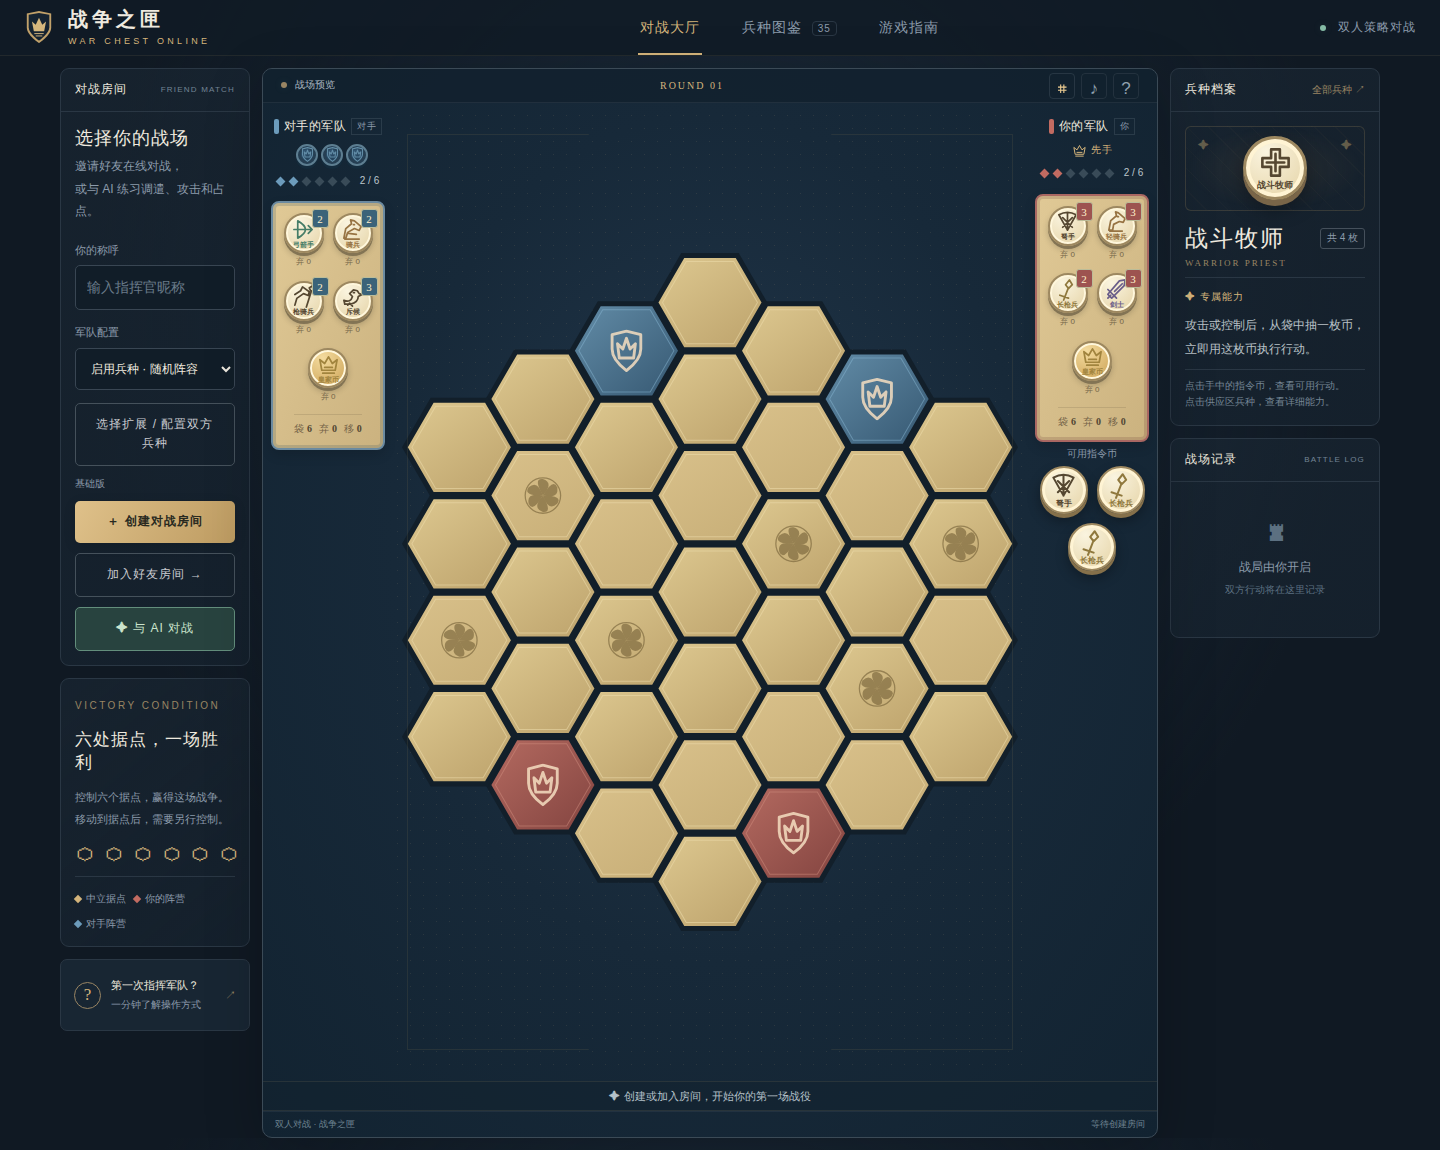
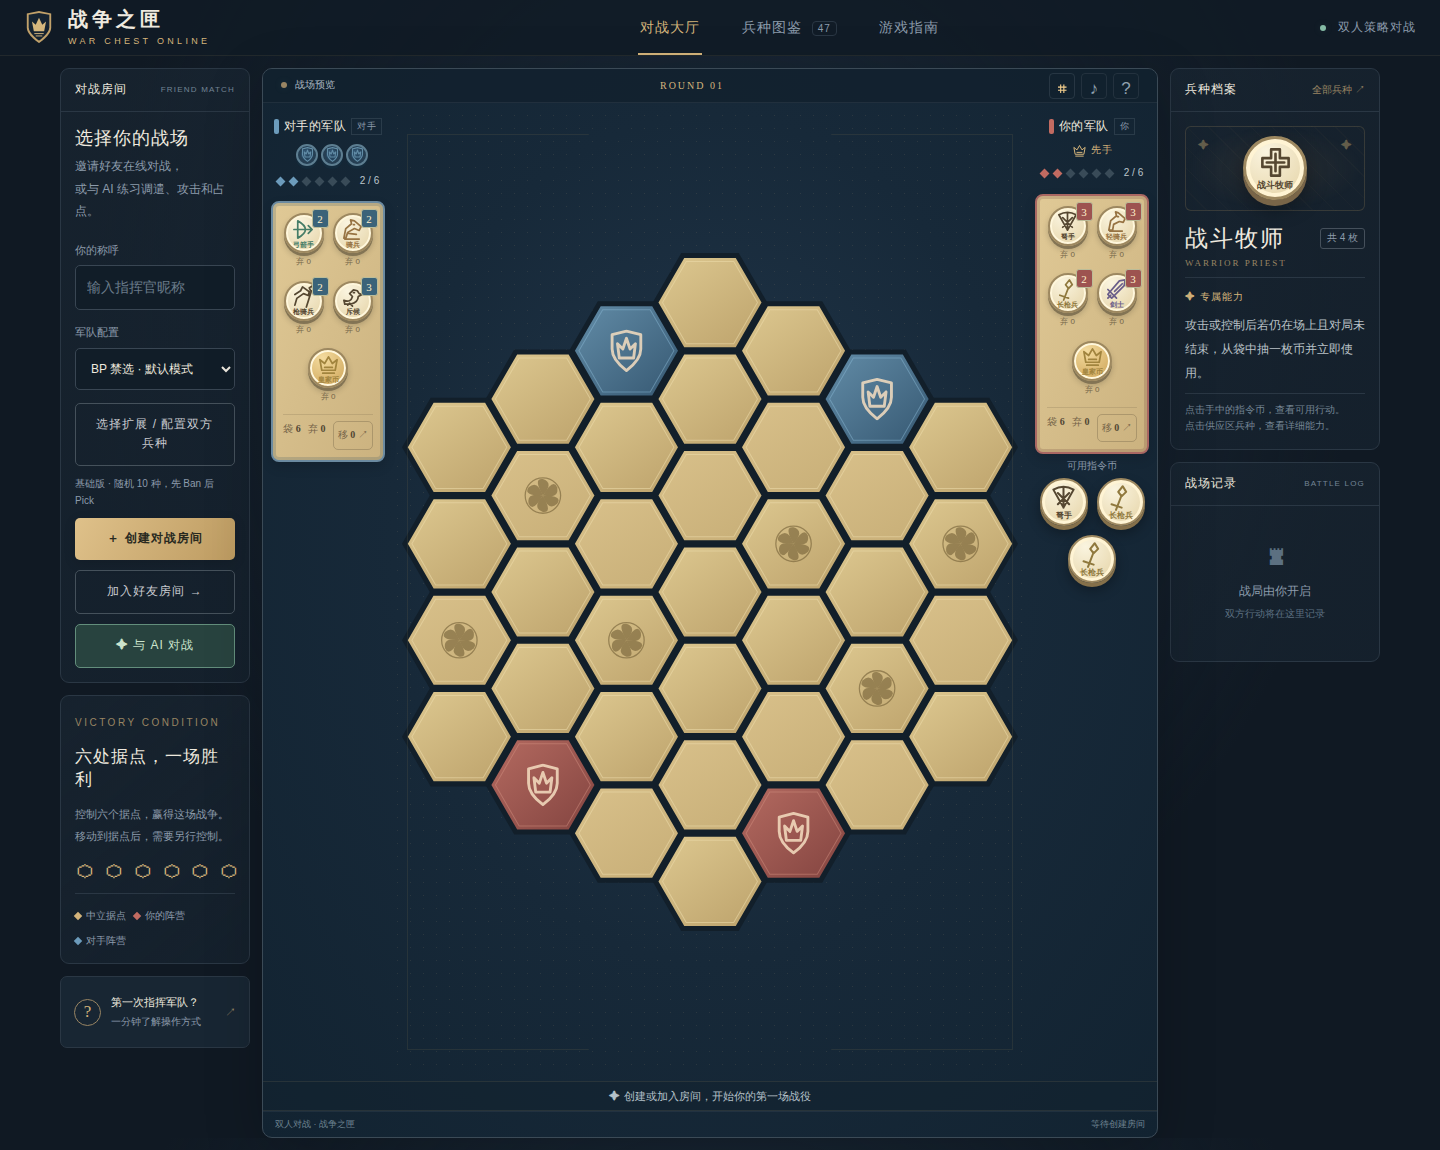
Add removed coin details and temporary online launcher
Show live removed coin counts for both players with desktop and mobile browser coverage. Include the Cloudflare Quick Tunnel launcher and usage notes, refreshed screenshots, and requested test whitespace changes.

diff --git a/warchest/static/app.js b/warchest/static/app.js
@@ -40,7 +40,7 @@ function renderZone(who,self){const v=view(),p=v.players[who],name=session?(snap
  const target=6-(v.extras?.lost_markers?.[who]||0);
  const progress=Array.from({length:target},(_,i)=>`<i class="${i<controls?'filled':''}"></i>`).join('');
  const hand=self?`<div class="hand-row"><span class="hand-label">可用指令币<b>YOUR HAND</b></span>${p.hand.map((u,i)=>`<button class="hand-coin ${selectedIndex===i?'selected':''}" data-coin="${u}" data-index="${i}" aria-label="使用${esc(unitName(u))}，第${i+1}枚" ${session&&!canAct()?'disabled':''}>${coinHTML(u)}</button>`).join('')}${!p.hand.length?'<span class="muted">本轮指令币已用完</span>':''}</div>`:`<div class="hidden-hand" aria-label="对手有 ${p.hand_count} 枚隐藏手牌">${Array.from({length:p.hand_count},()=>coinHTML('royal',true)).join('')}</div>`;
- return `<div class="player-topline"><div class="player-name"><i class="faction-dot"></i><strong>${esc(name)}</strong><small>${self?'你':'对手'}</small>${v.initiative===who?`<span class="initiative">${icon('royal')}先手</span>`:''}</div>${self?'':hand}<div class="control-progress">${progress}<span>${controls} / ${target}</span></div></div><div class="army-tray"><div class="faction-emblem"><span class="shield">${icon('crest')}</span><small>${self?'CRIMSON':'AZURE'}</small></div><div class="army-units">${supply}<button class="supply-item" data-unit="royal" title="皇家币">${coinHTML('royal')}<span class="discard-count">弃 ${p.discard.filter(c=>c==='royal').length}</span></button></div><div class="army-stats" title="袋内数量、弃牌总数、永久移除数量"><span>袋 <b>${p.bag_count}</b></span><span>弃 <b>${p.discard.length}</b></span><span>移 <b>${p.removed.length}</b></span></div></div>${self?hand:''}`;
+ return `<div class="player-topline"><div class="player-name"><i class="faction-dot"></i><strong>${esc(name)}</strong><small>${self?'你':'对手'}</small>${v.initiative===who?`<span class="initiative">${icon('royal')}先手</span>`:''}</div>${self?'':hand}<div class="control-progress">${progress}<span>${controls} / ${target}</span></div></div><div class="army-tray"><div class="faction-emblem"><span class="shield">${icon('crest')}</span><small>${self?'CRIMSON':'AZURE'}</small></div><div class="army-units">${supply}<button class="supply-item" data-unit="royal" title="皇家币">${coinHTML('royal')}<span class="discard-count">弃 ${p.discard.filter(c=>c==='royal').length}</span></button></div><div class="army-stats" title="袋内数量、弃牌总数、已移出游戏数量"><span>袋 <b>${p.bag_count}</b></span><span>弃 <b>${p.discard.length}</b></span><button class="removed-stat" data-removed-player="${who}" aria-label="查看${self?'己方':'对手'}已移除币明细，共 ${p.removed.length} 枚" title="点击查看已移除币明细">移 <b>${p.removed.length}</b> ↗</button></div></div>${self?hand:''}`;
 }
 function geometry(pos){let[q,r]=pos;if(view().player===0){q=-q;r=-r;}return [320+q*66,325+(r+q/2)*76.21];}
 function polygon(x,y,r){return Array.from({length:6},(_,i)=>{const a=i*Math.PI/3;return `${x+r*Math.cos(a)},${y+r*Math.sin(a)}`;}).join(' ');}
@@ -54,6 +54,15 @@ function renderBoard(){const v=view(),fortified=new Set((v.extras?.forts||[]).ma
  }).join('');
  $('#board').querySelectorAll('[data-pos]').forEach(el=>{el.onclick=()=>clickHex(el.dataset.pos.split(',').map(Number));el.onkeydown=e=>{if(e.key==='Enter'||e.key===' '){e.preventDefault();el.click();}};});
 }
+function renderRemoved(){
+ const dialog=$('#removed-dialog');
+ if(!dialog.open)return;
+ if(!snapshot?.view){dialog.close();return;}
+ const who=Number(dialog.dataset.player), v=view(), p=v.players[who];
+ const counts={};for(const unit of p.removed)counts[unit]=(counts[unit]||0)+1;
+ $('#removed-content').innerHTML=`<h2 id="removed-heading" class="dialog-heading">${who===v.player?'己方':'对手'} · 已移除币</h2><p class="dialog-intro">${esc(snapshot.seats[who]?.name||'指挥官')} · 当前共 <strong>${p.removed.length}</strong> 枚。已移出游戏的币不会随弃牌洗回袋中；“补充”法令可将其中一枚放回供应。</p>${p.removed.length?`<ul class="removed-list">${Object.entries(counts).map(([unit,count])=>`<li data-removed-unit="${unit}">${coinHTML(unit)}<span>${esc(unitName(unit))}</span><strong>× ${count}</strong></li>`).join('')}</ul>`:'<p class="removed-empty">该方尚无已移除的币。</p>'}<p class="dialog-intro">震慑返回弃牌的币不计入这里。</p>`;
+}
+function showRemoved(who){if(!snapshot?.view)return;$('#removed-dialog').dataset.player=who;openDialog('removed-dialog');renderRemoved();}
 function renderDetail(u){focusedUnit=u;const spec=meta.units[u]||(u?.startsWith('decoy_')?{name:unitName(u),coins:1,help:'诱饵可用于招募、抢先或跳过，也可用一次行动归还。不能部署、增强、调遣、解毒或颁布法令。'}:{name:'皇家币',coins:1,help:'可用于招募、跳过或抢夺先手。拥有皇家卫队时，也可支付皇家币发动卫队战术。启用贵族扩展时，还可颁布本局尚未使用的法令。'});$('#unit-detail').innerHTML=`<div class="unit-portrait">${coinHTML(u)}</div><div class="unit-name-line"><h2>${esc(spec.name)}</h2><small>共 ${spec.coins} 枚</small></div><div class="unit-en">${esc(u.replaceAll('_',' '))}</div><div class="unit-ability"><span class="ability-label">✦ 专属能力</span>${esc(spec.help)}${unitStatus(u)}</div><div class="unit-hint">点击手中的指令币，查看可用行动。<br>点击供应区兵种，查看详细能力。</div>`;}
 function unitStatus(u){
  const x=view().extras;if(!x)return '';
@@ -70,7 +79,7 @@ function unitStatus(u){
 function describeEvent(e){const d=Object.fromEntries(e.data),names=snapshot?.seats;const who=names?.[d.player]?.name||'指挥官';if(e.kind==='round')return {text:`第 ${d.round} 轮开始`,round:true};if(e.kind==='win')return {text:`${who} 达到据点目标，取得胜利`,mine:d.player===view().player};if(e.kind==='action'){const label=actionLabel(d);return {text:`${who} · ${label}${d.coin?' '+unitName(d.coin):''}${d.recruit?' → '+unitName(d.recruit):''}${d.kind==='proclaim'?' · '+(meta.decrees[d.effect]?.[0]||d.effect):''}`,mine:d.player===view().player};}if(e.kind==='damage')return {text:`${unitName(d.unit)} 损失一层${d.remaining===0?'，离开战场':''}`,mine:d.player===view().player};const extra={champion_destroyed:`${unitName(d.unit)} 阵亡，对手目标降为 ${d.target} 个据点`,capture:`${unitName(d.unit)} 俘获 ${unitName(d.victim)}`,copy:`学徒模仿 ${unitName(d.copied)}`,swap:`${unitName(d.unit)} 交换位置`,transport:`长船载运 ${unitName(d.unit)}`,initiative_changed:`${who} 变更先手`,shock:`${unitName(d.unit)} 被震慑，${d.count} 枚币返回弃牌`,poison:`${unitName(d.unit)} 对 ${d.pos} 施加毒药`,cure:`${unitName(d.unit)} 已解毒`,fort_built:`${d.pos} 修建堡垒`,fort_destroyed:`${d.pos} 堡垒被摧毁`,deceive:`${unitName(d.unit)} 的诱饵进入对方弃牌`,bag_top:`${who} 下次抽取 ${unitName(d.unit)}`,supply_damage:`${unitName(d.unit)} 损失一枚供应币`,spy_discard:`${who} 的一枚手牌被弃置并补抽`};return extra[e.kind]?{text:extra[e.kind],mine:d.player===view().player}:null;}
 function renderLog(){const entries=(snapshot?.draft&&!snapshot.view?[]:view().history).map(describeEvent).filter(Boolean).slice(-30).reverse();$('#battle-log').innerHTML=entries.length&&session?entries.map(e=>`<div class="log-entry ${e.mine?'mine':''}"><i></i><span class="${e.round?'log-round':''}">${esc(e.text)}</span></div>`).join(''):'<div class="empty-log"><span>♜</span><p>战局由你开启</p><small>双方行动将在这里记录</small></div>';}
 function banner(){let msg='创建或加入房间，开始你的第一场战役';if(snapshot?.status==='waiting')msg='等待另一位指挥官入席 · 分享房间链接';else if(snapshot?.status==='drafting')msg=snapshot.draft.current===session.player?`轮到你${snapshot.draft.kind==='ban'?'禁用':'选取'} ${snapshot.draft.count} 种兵种`:'等待对手完成 BP';else if(snapshot?.status==='finished')msg=`${snapshot.winner===session.player?'你赢得了这场战役':'本局已结束'} · ${snapshot.resigned!==null?'对手或你已认输':'已达到本局据点目标'}`;else if(snapshot?.status==='playing'){msg=canAct()?'轮到你了 · 点击一枚指令币选择行动':(snapshot.opponent==='ai'?'AI 正在思考，请稍候':'对手正在思考，请等待');if(view().pending?.length)msg=view().current===session.player?'技能结算中 · 请完成追加选择':'等待对手完成技能结算';}if(selection)msg=selection.title;$('#turn-banner').className=`turn-banner ${canAct()?'mine':''}`;$('#turn-banner').textContent='✦  '+msg;}
-function render(){if(!meta)return;if(!session)opponentNotices.clear();document.body.classList.toggle("in-room",!!session);renderRoom();const drafting=!!snapshot?.draft&&!snapshot.view;$('.arena').classList.toggle('drafting',drafting);renderDraft($('#draft-panel'),snapshot,session?.player,meta,coinHTML,connected&&!busy,submitDraft);const v=view();$('#arena-mode').textContent=session?(snapshot.status==='waiting'?'等待对手':snapshot.status==='finished'?'战役结束':snapshot.status==='drafting'?'BP 禁选':snapshot.opponent==='ai'?'与 AI 对战':'双人在线对战'):'战场预览';$('#round-tag').textContent=drafting?`BP ${Math.min(snapshot.draft.step+1,7)} / 7`:`ROUND ${String(v.round).padStart(2,'0')}`;$('#opponent-zone').innerHTML=renderZone(1-v.player,false);$('#self-zone').innerHTML=renderZone(v.player,true);document.querySelectorAll('[data-unit]').forEach(b=>b.onclick=()=>{renderDetail(b.dataset.unit);if(session&&matchMedia('(max-width: 900px)').matches)toggleSidebar('info',true);});document.querySelectorAll('[data-coin]').forEach(b=>b.onclick=()=>selectCoin(b.dataset.coin,Number(b.dataset.index)));renderBoard();renderDetail(focusedUnit);renderLog();renderDecision();banner();$('#toggle-coords').classList.toggle('on',coordinates);setConnection(connected);$('#show-decrees').hidden=!v.extras?.decrees?.length;}
+function render(){if(!meta)return;if(!session)opponentNotices.clear();document.body.classList.toggle("in-room",!!session);renderRoom();const drafting=!!snapshot?.draft&&!snapshot.view;$('.arena').classList.toggle('drafting',drafting);renderDraft($('#draft-panel'),snapshot,session?.player,meta,coinHTML,connected&&!busy,submitDraft);const v=view();$('#arena-mode').textContent=session?(snapshot.status==='waiting'?'等待对手':snapshot.status==='finished'?'战役结束':snapshot.status==='drafting'?'BP 禁选':snapshot.opponent==='ai'?'与 AI 对战':'双人在线对战'):'战场预览';$('#round-tag').textContent=drafting?`BP ${Math.min(snapshot.draft.step+1,7)} / 7`:`ROUND ${String(v.round).padStart(2,'0')}`;$('#opponent-zone').innerHTML=renderZone(1-v.player,false);$('#self-zone').innerHTML=renderZone(v.player,true);document.querySelectorAll('[data-removed-player]').forEach(b=>b.onclick=()=>showRemoved(Number(b.dataset.removedPlayer)));renderRemoved();document.querySelectorAll('[data-unit]').forEach(b=>b.onclick=()=>{renderDetail(b.dataset.unit);if(session&&matchMedia('(max-width: 900px)').matches)toggleSidebar('info',true);});document.querySelectorAll('[data-coin]').forEach(b=>b.onclick=()=>selectCoin(b.dataset.coin,Number(b.dataset.index)));renderBoard();renderDetail(focusedUnit);renderLog();renderDecision();banner();$('#toggle-coords').classList.toggle('on',coordinates);setConnection(connected);$('#show-decrees').hidden=!v.extras?.decrees?.length;}
 function selectCoin(coin,index=-1){renderDetail(coin);if(!session){toast('创建房间或加入好友房间，即可使用指令币');return;}if(!canAct()){toast('现在还不能行动，请等待对手或房间准备完成');return;}const actions=snapshot.actions.filter(a=>a.coin===coin);if(!actions.length){toast('请先完成当前技能要求的行动');return;}selection=null;selectedCoin=coin;selectedIndex=index;$('#self-zone').querySelectorAll('.hand-coin').forEach(b=>b.classList.toggle('selected',Number(b.dataset.index)===index));openActions(actions,coin);renderBoard();renderDecision();}
 function spyHandHTML(){const hand=view().extras?.spied_hand;return hand?`<p class="spy-hand">侦察所见手牌：${hand.length?hand.map(u=>esc(unitName(u))).join('、'):'空'}</p>`:'';}
 function openActions(actions,coin,title){$('#action-content').innerHTML=`<div class="action-heading">${coinHTML(coin)}<div><h2>${esc(title||unitName(coin))}</h2><p>选择这枚指令币的行动</p></div></div>${spyHandHTML()}<div class="action-grid">${groupActions(actions).map(g=>`<button class="action-option" data-group="${g.id}"><span class="action-symbol">${g.symbol}</span><span><strong>${g.label}</strong><small>${g.hint}</small></span></button>`).join('')}</div><p class="menu-note">仅显示当前合法的行动 · 唯一结果自动完成</p>`;$('#action-content').querySelectorAll('[data-group]').forEach(b=>b.onclick=()=>{const group=groupActions(actions).find(g=>g.id===b.dataset.group);chooseGroup(group);});openDialog('action-dialog');}

diff --git a/warchest/static/style.css b/warchest/static/style.css
@@ -110,5 +110,6 @@
 
 .draft-public-setup{margin:16px 0;padding:14px;border:1px solid #69717b;border-radius:12px}.draft-public-setup h3{margin:0 0 10px}.draft-decrees{padding-left:20px}.draft-decrees li{margin:6px 0}.draft-map{display:block;width:230px;max-width:100%;margin:0 auto}.draft-public-setup p{font-size:12px;text-align:center}
 
+.removed-stat{font:inherit;color:inherit;background:transparent;border:1px solid #806f5070;border-radius:5px;padding:5px 4px;cursor:pointer}.removed-stat:hover,.removed-stat:focus-visible{color:var(--gold,#dcc28a);border-color:currentColor}.removed-list{list-style:none;padding:0;margin:18px 0}.removed-list li{display:flex;align-items:center;gap:14px;padding:10px 0;border-bottom:1px solid #806f5040}.removed-list li>strong{margin-left:auto}.removed-empty{padding:20px 0;text-align:center}#removed-dialog{max-height:85dvh;overflow-y:auto}
 
 .hex.sea-hex .tile{fill:#325f7b}.hex.sea-hex .inner-line{stroke:#83bacb}.hex.sea-hex.available .tile{fill:#468b93}.transport-label{font-size:10px;fill:#fff;paint-order:stroke;stroke:#152c3e;stroke-width:3px}.expansion-rule-guide details{border-top:1px solid #806f5060;padding:14px 0}.expansion-rule-guide summary{cursor:pointer;font-weight:bold;line-height:1.6}.expansion-rule-guide small{display:block;margin-top:8px;color:#b8a580}.expansion-rule-guide ul{padding-left:20px;line-height:1.8}.expansion-rule-guide li{margin:8px 0}.expansion-rule-guide a{color:#d7bb7e}#general-dialog{max-height:85dvh;overflow:auto}

diff --git a/warchest/static/index.html b/warchest/static/index.html
@@ -44,6 +44,7 @@
   </main>
   <dialog id="action-dialog" class="action-dialog"><button class="dialog-close" data-close="action-dialog" aria-label="关闭行动菜单">×</button><div id="action-content"></div></dialog>
   <dialog id="general-dialog" class="general-dialog"><button class="dialog-close" data-close="general-dialog" aria-label="关闭弹窗">×</button><div id="general-content"></div></dialog>
+  <dialog id="removed-dialog" class="general-dialog" aria-labelledby="removed-heading"><button class="dialog-close" data-close="removed-dialog" aria-label="关闭已移除币明细">×</button><div id="removed-content"></div></dialog>
   <div id="toast" class="toast" role="status" aria-live="polite"></div>
   <noscript>请启用 JavaScript 以显示棋盘和参与在线对战。</noscript>
 </body>

diff --git a/tests/test_browser.py b/tests/test_browser.py
@@ -691,6 +691,50 @@ def test_wagon_selects_ally_before_destination(live, browser):
     page.close()
 
 
+@pytest.mark.parametrize('width', [1440, 390])
+def test_removed_coins_details_both_sides_live_update(live, browser, width):
+    from playwright.sync_api import expect
+    from warchest import new_game, serialize, deserialize, validate_state
+    app, url = live
+    client = app.test_client()
+    seat = client.post('/api/rooms', json={'name':'明细测试','mode':'intro'}).get_json()
+    client.post(f"/api/rooms/{seat['code']}/join", json={'name':'对手'})
+    state = new_game(2)
+    state.players[0].supply['swordsman'] -= 2
+    state.players[0].removed.extend(['swordsman'] * 2)
+    state.players[0].supply['pikeman'] -= 1
+    state.players[0].removed.append('pikeman')
+    validate_state(state)
+    with app.extensions['rooms'].room(seat['code']) as room:
+        room['state'] = serialize(state)
+    page = browser.new_page(viewport={'width':width,'height':900})
+    page.add_init_script(f"sessionStorage.setItem('wc.session', {json.dumps(json.dumps(seat))});")
+    page.goto(url)
+    page.locator('#self-zone [data-removed-player]').click()
+    expect(page.locator('#removed-heading')).to_have_text('己方 · 已移除币')
+    expect(page.locator('[data-removed-unit="swordsman"] strong')).to_have_text('× 2')
+    expect(page.locator('[data-removed-unit="pikeman"] strong')).to_have_text('× 1')
+    expect(page.locator('.removed-list li')).to_have_count(2)
+    # A reinforcement returns a coin to supply: the open view must not stay stale.
+    with app.extensions['rooms'].room(seat['code']) as room:
+        state = deserialize(room['state'])
+        state.players[0].removed.remove('swordsman')
+        state.players[0].supply['swordsman'] += 1
+        validate_state(state)
+        room['state'] = serialize(state)
+        room['revision'] += 1
+    expect(page.locator('[data-removed-unit="swordsman"] strong')).to_have_text('× 1')
+    page.keyboard.press('Escape')
+    expect(page.locator('#removed-dialog')).not_to_be_visible()
+    page.locator('#opponent-zone [data-removed-player]').click()
+    expect(page.locator('#removed-heading')).to_have_text('对手 · 已移除币')
+    expect(page.locator('.removed-empty')).to_have_text('该方尚无已移除的币。')
+    page.locator('[data-close="removed-dialog"]').click()
+    expect(page.locator('#removed-dialog')).not_to_be_visible()
+    assert page.evaluate('document.documentElement.scrollWidth') <= width
+    page.close()
+
+
 def community_page(live, browser, state, width=1440):
     from warchest import serialize
     app, url = live

diff --git a/tests/test_cheat_mcts.py b/tests/test_cheat_mcts.py
@@ -27,7 +27,7 @@ def test_current_hands_known_but_order_seed_stream_ignored():
     results = []
     for s in (state, other):
         stats = {}
-        action = choose_cheat_mcts_action(s, actions, random.Random(2),
+        action = choose_cheat_mcts_action(s, actions, random.Random(2), 
                                          simulations=3, max_rollout_steps=12, stats=stats)
         results.append((action, stats['actions']))
     assert results[0] == results[1]
@@ -122,7 +122,7 @@ def test_immediate_win_terminal_rewards_and_final_visits():
     validate_state(s)
     choices = [next(a for a in legal_actions(s) if a.kind == 'control'), Action('pass', 'footman')]
     stats = {}
-    action = choose_cheat_mcts_action(s, choices, random.Random(2),
+    action = choose_cheat_mcts_action(s, choices, random.Random(2), 
                                      simulations=20, max_rollout_steps=1, stats=stats)
     assert action == choices[0]
     assert stats['completed'] > 0

diff --git a/tests/test_ai_compatibility.py b/tests/test_ai_compatibility.py
@@ -100,3 +100,5 @@ def test_stale_decision_discarded(tmp_path, monkeypatch, change):
     monkeypatch.setattr('warchest.web.choose_action', searching)
     result = rooms.get(seat['code'], seat['token'])
     assert result['revision'] == (1 if change == 'revision' else 0)
+
+

diff --git a/docs/cloudflared.md b/docs/cloudflared.md
@@ -1,0 +1,32 @@
+# 本机临时公网联机
+
+本机已将 Cloudflare 官方 Linux amd64 程序安装到 `.tools/cloudflared`。
+无需账号或域名，不需要修改路由器端口转发。
+
+在项目根目录运行：
+
+```bash
+bash scripts/start-online.sh
+```
+
+脚本同时启动本机游戏（127.0.0.1:8080）及 Cloudflare Quick Tunnel。
+终端显示 `https://随机名称.trycloudflare.com` 后，双方都打开这个公网地址，
+再创建房间并分享邀请链接。不要从 localhost 页面复制邀请链接给异地好友。
+按 Ctrl+C 会同时停止脚本启动的游戏和隧道；电脑和 WSL 必须保持运行。
+如果提示服务已运行或 8080 被占用，请先停止原来的服务。
+
+本次配置时已在后台启动，日志为 `.tools/online.log`，启动进程号记录在
+`.tools/online.pid`。停止本次后台运行：
+
+```bash
+kill "$(cat .tools/online.pid)"
+```
+
+该 PID 文件仅用于本次后台会话；系统重启后不要用旧 PID 文件停止进程。
+停止后可以用上面的启动脚本重新运行。不配置开机自启。
+
+房间保存在 `data/rooms.sqlite3`。隧道重启通常生成新域名，浏览器保存在旧域名下的
+座位凭证不会自动迁移到新域名，建议先结束对局再重启隧道。
+
+Quick Tunnel 用于临时测试，没有可用性保证。
+官方说明：https://developers.cloudflare.com/cloudflare-one/networks/connectors/cloudflare-tunnel/do-more-with-tunnels/trycloudflare/
